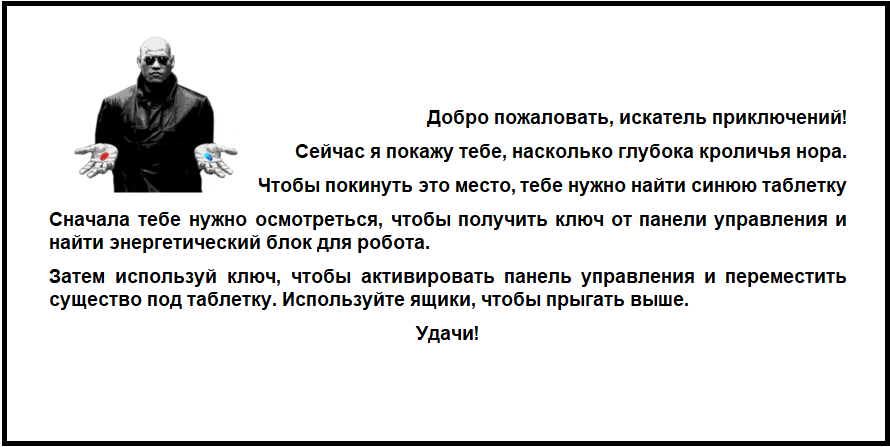
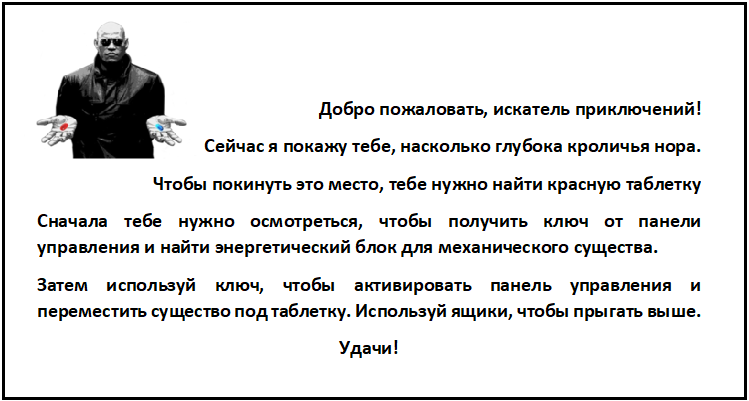
fix_soundGenerator_RuDecsIm

diff --git a/src/scenes/cyber-temple-matrix/entities/npc.ts b/src/scenes/cyber-temple-matrix/entities/npc.ts
@@ -48,10 +48,10 @@ export default class NPC {
     const ruDescImage = new UIImage(canvas, new Texture(resources.IMAGE_RU_DESC))
     ruDescImage.width = "0px"
     ruDescImage.name = "clickable-image"
-    ruDescImage.width = "890px"
-    ruDescImage.height = "447px"
-    ruDescImage.sourceWidth = 890
-    ruDescImage.sourceHeight = 447
+    ruDescImage.width = "749px"
+    ruDescImage.height = "401px"
+    ruDescImage.sourceWidth = 749
+    ruDescImage.sourceHeight = 401
     ruDescImage.isPointerBlocker = true
     ruDescImage.visible = false
     ruDescImage.onClick = new OnClick(() => {

diff --git a/src/scenes/cyber-temple-matrix/entities/robot.ts b/src/scenes/cyber-temple-matrix/entities/robot.ts
@@ -75,7 +75,8 @@ export default class Robot extends PhysicsEntity {
       }
       const Start = new Entity()
       engine.addEntity(Start)
-      Start.addComponent(new AudioSource(new AudioClip(resources.SOUND_GENERATOR_START)))
+		Start.setParent(this._battery)
+      Start.addComponent(new AudioSource(new AudioClip(resources.SOUND_GENERATOR_START)));
 
       Start.getComponent(AudioSource).playOnce();
     } else {
